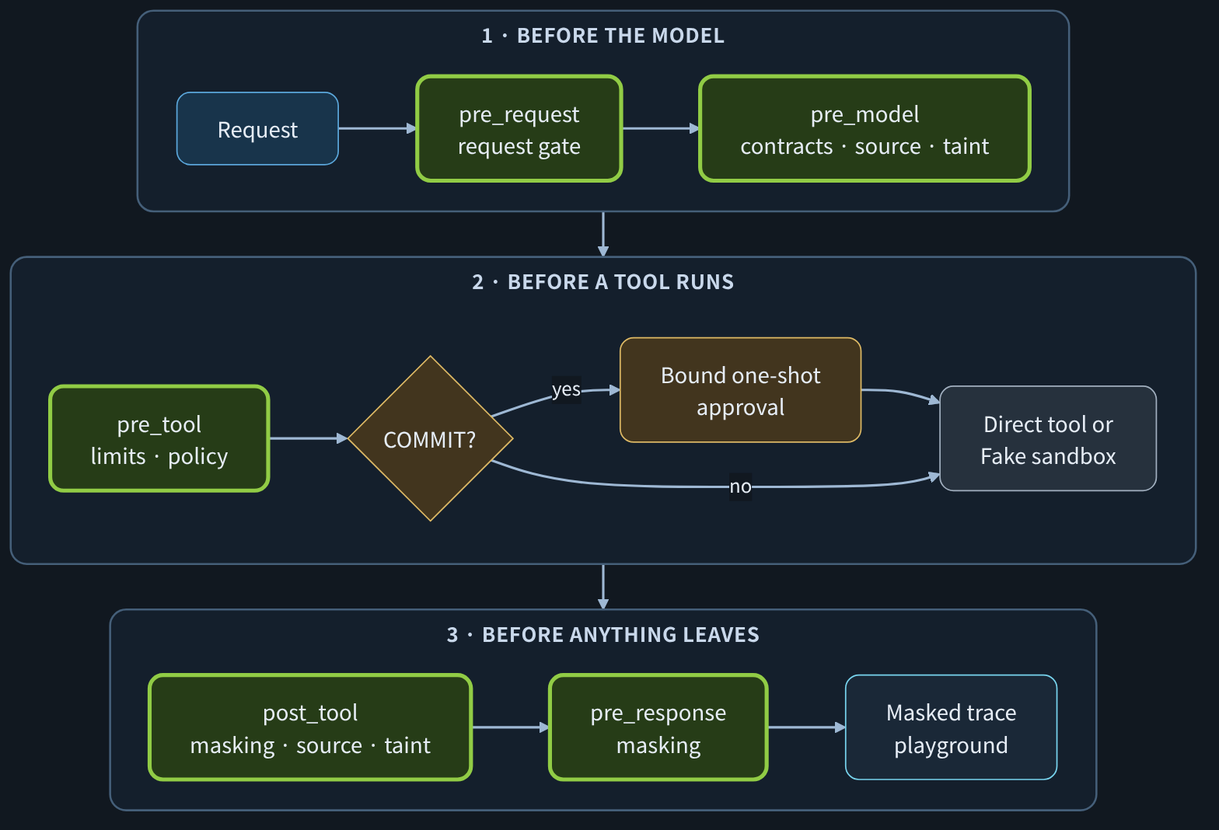
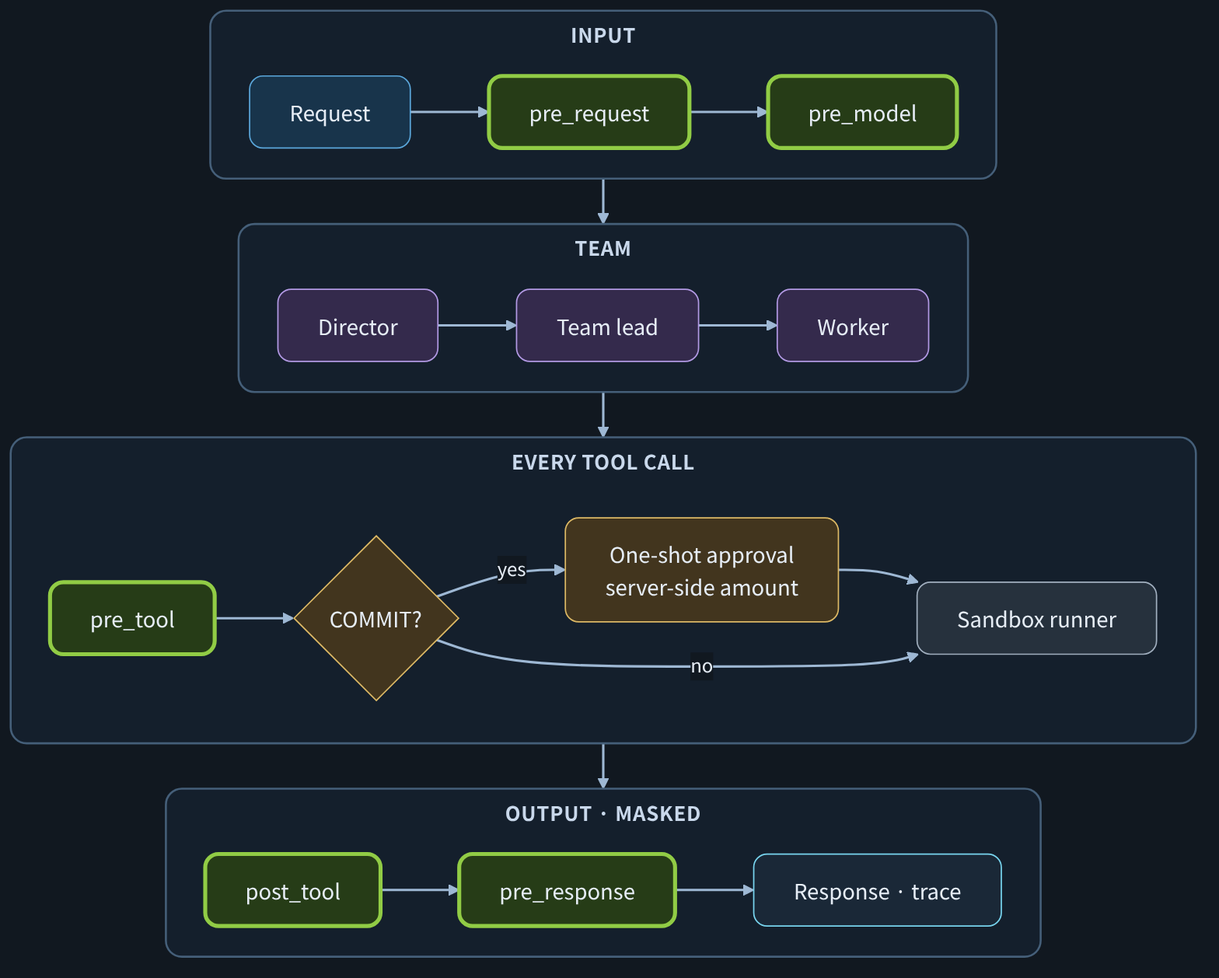
docs: keep the README to the essentials
Tables and one diagram, with evidence links; the three folded detail
sections and the legacy summary stay, other long text moves to
docs/IMPLEMENTATION.md.

Claude-Session: https://claude.ai/code/session_01UJTvahVsqTmJkgkdkZkuMi

diff --git a/README.md b/README.md
@@ -2,84 +2,59 @@
 
 [한국어](README.ko.md) · **English**
 
-A design-and-implementation repo for organizing specialist agents (weather, restaurants, lodging, payment…) into a
-**director → team lead → worker** hierarchy, with **swappable domain packs**, a **5-stage security filter chain**, and
-**NemoClaw/OpenShell sandboxes** that isolate risky actions (payments, code execution).
-Real compiled graphs run end to end from scenarios **without any LLM, network, or NemoClaw**.
+**Director → team lead → worker agents · approval-gated mock payments · NemoClaw sandboxes**
 
-**NemoClaw common problems** — [English](docs/NEMOCLAW_KNOWN_ISSUES.md) · [한국어](docs/NEMOCLAW_KNOWN_ISSUES.ko.md)
+[NemoClaw common problems](docs/NEMOCLAW_KNOWN_ISSUES.md) · [Design](docs/DESIGN.md) · [Implementation notes](docs/IMPLEMENTATION.md)
 
-## NemoClaw worker sandbox — 12 isolation checks
+## NemoClaw sandbox — 12 / 12 isolation checks
 
-**Result: 12 / 12 PASS** on one real install (WSL2, NemoClaw v0.0.145, OpenShell 0.0.116, 2026-11-27).
-A probe runs inside the sandbox. Checks 1–8 and 12 *attempt* the action; 9–11 read the process identity and privilege flags.
+Real install · WSL2 · NemoClaw v0.0.145 · OpenShell 0.0.116 · 2026-11-27 · [check script](https://github.com/ai-agent-orchestrator/langsmith-multi-agent-nemoclaw/blob/21-nemoclaw-cli/scripts/nemoclaw_isolation_check.py)
 
-| # | Check | When it applies | Enforced by | Observed |
-|---|---|---|---|---|
-| | **Network** | | | |
-| 1 | `direct_tcp_refused` | Code opens a socket straight to the internet, bypassing the proxy | Sandbox network namespace | timeout |
-| 2 | `proxy_tunnel_refused` | Code asks the sandbox proxy for an HTTPS tunnel (`CONNECT`) to an unlisted host | Proxy policy: no rule for the host | `403` |
-| 3 | `proxy_http_refused` | Code sends plain HTTP to an unlisted host through the proxy | Proxy policy: no rule for the host | `403` |
-| | **Files** | | | |
-| 4 | `control_tmp_write` | Code writes a temporary file in `/tmp`. **Must succeed** (control case) | Allowed by the file policy | written, removed |
-| 5 | `write_var_tmp_refused` | Code writes to `/var/tmp`, world-writable but not in the policy | Landlock | `EACCES` |
-| 6 | `write_dev_shm_refused` | Code writes to shared memory `/dev/shm`, also not in the policy | Landlock | `EACCES` |
-| 7 | `write_code_refused` | Code tries to change the worker's own program in `/opt/orchestra` | File permissions, read-only in policy | `EACCES` |
-| 8 | `read_unlisted_refused` | Code opens a world-readable file outside the policy (`/var/lib/dpkg/status`) | Landlock | `EACCES` |
-| | **Privileges** | | | |
-| 9 | `not_root` | Every process the worker runs | Sandbox user | uid `10001` |
-| 10 | `no_capabilities` | Code needs a Linux capability (admin-level kernel right) | Empty effective capability set | `CapEff` 0 |
-| 11 | `no_new_privileges` | Code launches a setuid program to gain rights | Kernel `no_new_privs` flag | `1` |
-| 12 | `memfd_refused` | Code creates an in-memory file to execute without touching disk (`memfd_create`) | Syscall filter (seccomp) | `EPERM` |
-
-**Model route (checked separately): PASS, `no_route`.** OpenShell opens the tunnel to `inference.local` without any
-network rule. No inference route was configured, so requests reached no model. **If a route is configured for the
-sandbox's OpenShell workspace, sandbox code can call that model**; run the check again after any such change.
-
-Not covered: CPU and memory limits, isolation between sandboxes, leaks through DNS. The result describes that install
-and policy, not every NemoClaw version. Run it with
-[`scripts/nemoclaw_isolation_check.py`](https://github.com/ai-agent-orchestrator/langsmith-multi-agent-nemoclaw/blob/21-nemoclaw-cli/scripts/nemoclaw_isolation_check.py);
-the script and the worker sandbox are on branch
-[`21-nemoclaw-cli`](https://github.com/ai-agent-orchestrator/langsmith-multi-agent-nemoclaw/tree/21-nemoclaw-cli).
+| # | Tried inside the sandbox | Stopped by | Result |
+|---|---|---|---|
+| 1 | Direct TCP to the internet | network namespace | timeout |
+| 2 | HTTPS tunnel to an unlisted host | proxy policy | `403` |
+| 3 | Plain HTTP to an unlisted host | proxy policy | `403` |
+| 4 | Write `/tmp` (control, must work) | allowed | written |
+| 5 | Write `/var/tmp` | Landlock | `EACCES` |
+| 6 | Write `/dev/shm` | Landlock | `EACCES` |
+| 7 | Change the worker code | file permissions | `EACCES` |
+| 8 | Read a file outside the policy | Landlock | `EACCES` |
+| 9 | Run as root | sandbox user | uid `10001` |
+| 10 | Hold Linux capabilities | none granted | `0` |
+| 11 | Gain rights through setuid | `no_new_privs` | on |
+| 12 | Run code from memory (`memfd_create`) | seccomp | `EPERM` |
+| ⚠ | Call a model via `inference.local` | **only an empty route**: setting one opens it | `503` |
 
 ## 1. What is implemented
 
 <p align="center">
   <img src="docs/diagrams/implemented-flow-dark.png" width="780"
-       alt="Filter flow: before the model (pre_request, pre_model), before a tool runs (pre_tool, one-shot approval for COMMIT, direct tool or Fake sandbox), before anything leaves (post_tool, pre_response, masked trace)">
+       alt="Request, pre_request, pre_model; director, team lead, worker; pre_tool, one-shot approval for COMMIT, sandbox runner; post_tool, pre_response, response and trace">
 </p>
 
-Any BLOCK stops the affected path. The sandbox in this flow is the local Fake runner. Normalization and taint rules
-are defense in depth, not a complete prompt-injection solution.
+## 2. Key design decisions (payments are mock)
 
-## 2. Key design decisions
-
-| Decision | What it guarantees |
-|---|---|
-| **Swappable domain packs** | Tools, agents, filters and scenarios live in `domains/*`; the core never imports a domain (test-enforced) |
-| **The server computes the amount** | The LLM never decides what is charged: the total comes from the holds |
-| **Three approval layers, one-shot** | No approval-ledger entry, no capture, even with all filters disabled; no answer means denial |
-| **Safe interrupt / resume** | Tool nodes re-run on resume, yet payment is captured exactly once (pinned by a test) |
-| **Fail closed** | A filter exception becomes BLOCK; sandbox mode without a runner aborts |
-| **Egress policy generated from declarations** | Duplicate host:port, wildcards, `access: full` and inference hosts are rejected; `closed` mode drops the LangSmith preset |
+| Remember this | How | Checked by |
+|---|---|---|
+| **The model never sets the charge** | The server totals the holds | [tool signature](domains/payment/tools.py) |
+| **No approval, no charge** | Ledger check in the tool wrapper, even with approval filters off | [test](tests/test_simulation_golden.py) |
+| **An approval works once** | Bound to arguments, amount, user and expiry | [test](tests/test_approval_binding.py) |
+| **Resume never charges twice** | The tool node re-runs; capture happens once | [test](tests/test_simulation_golden.py) |
+| **Network rules come from code** | Generated from tool declarations; wildcards and duplicate hosts fail | [test](tests/test_policy.py), CI |
+| **Isolation is measured** | A probe attempts each action on a real install | [script](https://github.com/ai-agent-orchestrator/langsmith-multi-agent-nemoclaw/blob/21-nemoclaw-cli/scripts/nemoclaw_isolation_check.py) |
 
 ## 3. Division of work and what remains
 
 | Area | Status |
 |---|---|
-| Specs/org chart/fan-out, filter chain + built-ins, tool wrapper, HITL, ScriptedChatModel | ✅ done |
-| Hierarchical graph/tools, service, travel + payment packs, simulation + 6 scenarios | ✅ offline |
-| NemoClaw policy generation/validation/drift/fail-closed, fake sandbox | ✅ done (real NemoClaw: see the last row) |
-| Packaging, legacy shims, immutable vendoring, frontmatter and 14-plugin catalog | ✅ C1–C5 |
-| hookify rules → existing filter stages | ✅ C9 |
-| 24-feature LangSmith map + offline `showcase` CLI | ✅ C11 offline; hosted/API+UI paths unverified |
-| CLI org/pattern/local trace options | ✅ C13 |
-| Claude tool mapping / `claude_dev` / adapters / additional domain scenarios | ⬜ C6–C8, C10; R4 + tool-count policy gate |
-| v1 backend (`langchain.agents.create_agent`), scenario parity | ✅ C15 (scripted models) |
-| Source-labelled contracts, approval binding, capability checks, inspection normalization/taint | ✅ C16–C19; rule-based defense in depth |
-| Memory / masked HMAC SQLite ledgers, local mock atomicity | ✅ C22; full workflow restart is not supported |
-| Playground trace / filter / approval-history tabs; Studio entry declaration | ✅ C14; `langgraph dev` unverified (CLI not installed) |
-| Real NemoClaw worker sandbox (branch `21-nemoclaw-cli`) | 🟡 isolation checks 12/12 on one install; ⬜ CPU/memory limits, load, recovery after restart |
+| Hierarchy, 5-stage filters, approval, mock payment, 6 scenarios | ✅ offline |
+| LangSmith, 24 features | ✅ offline · ⬜ real server |
+| NemoClaw egress policy generation | ✅ offline |
+| NemoClaw worker sandbox ([branch](https://github.com/ai-agent-orchestrator/langsmith-multi-agent-nemoclaw/tree/21-nemoclaw-cli)) | ✅ real install |
+| Real LLM | ⬜ |
+| Sandbox CPU / memory limits, load, restart, cross-sandbox and DNS-leak tests | ⬜ |
+| Claude tool adapters, more scenarios | ⬜ |
 
 ## Implementation details
 
@@ -253,18 +228,7 @@ and builds a scripted/Fake graph locally. `langgraph-cli` is absent here, so run
 
 </details>
 
-## NemoClaw in this repo
-
-This repo covers the part of NemoClaw you can **see and run offline**: `ToolSpec` egress declarations -> preset generation, validation and drift check (`scripts/gen_nemoclaw_presets.py`), the security-mode <-> preset mapping (`closed` removes the LangSmith egress preset entirely), and a fake sandbox that makes the `sandbox_egress_denied` scenario show the multi-agent -> LangSmith -> NemoClaw flow end to end.
-
-**Not covered on this branch:** executing inside a real sandbox. The worker sandbox work is on branch [`21-nemoclaw-cli`](https://github.com/ai-agent-orchestrator/langsmith-multi-agent-nemoclaw/tree/21-nemoclaw-cli); see the isolation checks above. CLI and policy schemas vary by NemoClaw version.
-
----
-
-# Appendix — Original skeleton (supervisor / handoff / hybrid / hierarchical, LangSmith)
-
-The earlier skeleton (`travel_planner/`) is kept as is (its 14 original tests still pass); a backward-compatible shim onto `orchestra/` is Codex task C2.
-The detailed legacy write-up (structure diagrams, LangSmith wrapper, security modes, bottleneck report, playground) is in the Korean README: [`README.ko.md`](README.ko.md#부록--기존-골격-supervisor--handoff--hybrid--hierarchical-langsmith-연동).
+## Appendix — Original skeleton (supervisor / handoff / hybrid / hierarchical, LangSmith)
 
 Quick summary of the legacy structures:
 
@@ -276,116 +240,3 @@ Quick summary of the legacy structures:
 | Hierarchical | Team-lead supervisors under a director, keeping each manager to 3–5 options (now superseded by `orchestra/`) |
 
 LangSmith wrapper modes (`TRAVEL_SECURITY_MODE`): `off` / `masked` / `closed` — in `closed`, tracing is disabled and, under NemoClaw, the LangSmith egress preset is not generated at all (physical block).
-
-Approval records bind the full canonical arguments, caller identity, server-derived
-amount, expiry and request/thread ID with a full SHA-256 key. Set
-`ORCHESTRA_APPROVAL_TTL_SECONDS` (default 300); supply the authenticated caller as
-`user_id=` to both OrchestraService.ask and resume. Legacy calls default to
-`anonymous`; this is compatibility, not authentication. Checkpointed approval
-payloads preserve the original deadline across interrupt re-execution. The ledger
-atomically claims the grant before execution. Signature fields are reserved only;
-no signing, persistence, or hash-chain audit was added.
-
-### Delegation capabilities (C18)
-
-`TeamSpec.capabilities` accepts optional `tools`, `domains`, and `sandboxes` lists.
-An explicit list is an upper bound: every descendant grant must fit inside it.
-Omitted dimensions derive from the subtree's actual grants; they are not wildcards.
-Empty lists grant nothing. Agent tools remain restricted to `AgentSpec.tools`.
-After domain resolution, sandbox ownership comes from registered pack metadata;
-foreign-domain sandbox tools and unknown grants fail closed before graph construction.
-Generated fanout leads inherit the same ancestor bounds. Host-defined agents without
-pack metadata have no domain or sandbox authority. These checks validate graph
-configuration; OS sandbox startup/policy attestation remains the separate runner work.
-
-### Inspection normalization and tool provenance (C19)
-
-The request gate checks a separate inspection copy: NFKC, decomposition/removal
-of combining marks and zero-width formatters, whitespace folding, and 1→i / 0→o.
-Business payloads, amounts, dates and original user messages are never rewritten.
-The legacy security gate uses the same inspection function.
-
-Successful post-tool data is exposed as `{"source":"tool","data": ...}`; this
-host-owned outer label overrides any source claim inside the returned data.
-The existing pre-model/handoff paths retain tool roles and reject recognized
-instruction patterns even through replayed data frames. Nested tool-labelled
-instructions cannot be passed as delegation or COMMIT data. Once a tool result
-matches the shared gate patterns, its raw text is replaced with a generic blocked
-marker and that thread is conservatively quarantined: delegation and COMMIT are
-blocked before approval or execution. Normal model continuation also stops on
-the marker. Quarantine is scoped by LangGraph configuration and is not cleared by
-user approval; use a new thread after investigation. State is process-memory only.
-
-This is **defense in depth**, not a complete prompt-injection solution or semantic
-taint tracking. Unrecognized paraphrases, other encodings, and model reasoning
-cannot be proven safe by these rules. A recognized quoted example can also trigger
-a conservative block. Source labels attest transport, not truth. Scanner, red-team
-framework, audit signatures and real sandbox runner remain separate work.
-
-### Simulation CLI (C13)
-
-```bash
-python -I examples/simulate_hierarchical.py --org orgs/travel_payment.yaml --pattern tools --trace --json out/sim/trace.json
-```
-
-`--pattern graph` is the default and retains the previous behavior. `tools` is a
-thin entry point in the control-tool factory module and calls the same safe graph
-builder; it is not another orchestration or model backend. An explicit `--org`
-replaces the scenario organization without modifying the scenario file. A missing
-path or directory exits with status 2 and one diagnostic line before graph execution.
-`--mode print|graph` still controls presentation only; both execute the real graph.
-
-`--trace` collects local filter decisions (including ALLOW), approval requests and
-results, sandbox routes/results, and blocks. Each `[TRACE]` line is one JSON record
-with a monotonically ordered event `seq`. Newlines inside fields are escaped.
-`--json` additionally includes the same `trace` array, using existing event order
-and deduplication. Trace console text and JSON exports always pass through masking,
-even with `--security-mode off`. Trace records whitelist diagnostic fields and omit
-approval bindings/full tool args. This option does not enable LangSmith transmission.
-Without it, the existing narrative/JSON shape and event capture behavior are retained.
-
-### Ledger persistence (C22)
-
-The default `LedgerStore` is isolated process memory and needs no key or file.
-For SQLite, set `ORCHESTRA_LEDGER=sqlite:///C:/private/orchestra/ledger.db`
-with an explicit path in an existing directory, and set
-`ORCHESTRA_LEDGER_HMAC_KEY` to a random secret of at least 32 UTF-8 bytes in the
-environment. Missing/short keys reject startup before opening the database.
-`ORCHESTRA_LEDGER_KEY_ID` is an optional public rotation label; when omitted,
-a non-secret HMAC-derived identifier is used. No default database path or secret
-is provided. Schema version 1 is recorded in SQLite and approval rows; unknown
-future versions fail closed. Tests create databases only under pytest `tmp_path`.
-
-The original C17 `ApprovalRecord` and canonical arguments stay in memory. SQLite
-stores a domain-separated, full-length HMAC-SHA256 binding over the entire original
-C17 tuple, a separate HMAC of the user, a key ID, expiry, consumption flag and
-masked display. Display omits argument/user/request contents and may show amount.
-Execution recomputes the HMAC from a valid transient record, including the original
-expiry and request ID; a new deadline never revives an old authorization. Expired
-records are invalid on read and `store.cleanup_expired(now)` deletes them.
-
-`ApprovalLedger`, `EventLog` and the local `MockPaymentProvider` share one store.
-`BEGIN IMMEDIATE` plus a conditional consume UPDATE prevents two connections from
-claiming the same grant. Consumption, mock payment state, and the keyed idempotency
-entry commit together. Failed mock-state writes roll back all three. Original
-arguments, unkeyed approval hashes, and raw binding payloads are omitted from
-persistent events. Payment safety evaluation correlates host-generated HMAC
-references after this redaction. A stable `EventLog(store=store, scope="app")`
-reloads masked events and deduplicates across instances; use separate scopes for
-independent runs. Default runtime scope is `runtime`.
-
-Key rotation: stop old writers, let outstanding approvals expire (or deny them),
-then deploy a new environment key/key ID together. New-key instances cannot consume
-or overwrite old-key approvals; retain their masked metadata as read-only until
-expiry, then clean it up. Old idempotency indexes are key-specific: do not blindly
-retry old requests across key epochs. Inspect recorded receipts and reconcile
-pending requests before enabling new work; no automatic re-keying or recovery of
-raw inputs is implemented. Keep old secrets out of the database and version control.
-
-One masked `append_event` hook is available for future signature/chain integration;
-its default is a no-op. No signature or hash chain is implemented. These guarantees
-cover the local mock/Fake path. SQLite COMMIT rejects nonparticipating payment
-providers and remote sandbox transports. Graph checkpoints, holds, model queues,
-and actual payment-provider effects are not made durable or transactionally coupled
-by this feature; full workflow restart/resume and real NemoClaw remain unverified.
-`Memory` mode retains C17 consumption on execution failure; only participating SQLite mock operations roll back authorization together with payment state.

diff --git a/docs/IMPLEMENTATION.md b/docs/IMPLEMENTATION.md
@@ -1,0 +1,129 @@
+# Implementation notes
+
+Back to the [README](../README.md).
+
+## NemoClaw in this repo
+
+This repo covers the part of NemoClaw you can **see and run offline**: `ToolSpec` egress declarations -> preset generation, validation and drift check (`scripts/gen_nemoclaw_presets.py`), the security-mode <-> preset mapping (`closed` removes the LangSmith egress preset entirely), and a fake sandbox that makes the `sandbox_egress_denied` scenario show the multi-agent -> LangSmith -> NemoClaw flow end to end.
+
+**Not covered on this branch:** executing inside a real sandbox. The worker sandbox work is on branch [`21-nemoclaw-cli`](https://github.com/ai-agent-orchestrator/langsmith-multi-agent-nemoclaw/tree/21-nemoclaw-cli); see the isolation checks in the [README](../README.md). CLI and policy schemas vary by NemoClaw version.
+
+---
+
+## Appendix — Original skeleton (supervisor / handoff / hybrid / hierarchical, LangSmith)
+
+The earlier skeleton (`travel_planner/`) is kept as is (its 14 original tests still pass); a backward-compatible shim onto `orchestra/` is Codex task C2.
+The detailed legacy write-up (structure diagrams, LangSmith wrapper, security modes, bottleneck report, playground) is in the Korean README: [`README.ko.md`](../README.ko.md#부록--기존-골격-supervisor--handoff--hybrid--hierarchical-langsmith-연동).
+
+Approval records bind the full canonical arguments, caller identity, server-derived
+amount, expiry and request/thread ID with a full SHA-256 key. Set
+`ORCHESTRA_APPROVAL_TTL_SECONDS` (default 300); supply the authenticated caller as
+`user_id=` to both OrchestraService.ask and resume. Legacy calls default to
+`anonymous`; this is compatibility, not authentication. Checkpointed approval
+payloads preserve the original deadline across interrupt re-execution. The ledger
+atomically claims the grant before execution. Signature fields are reserved only;
+no signing, persistence, or hash-chain audit was added.
+
+### Delegation capabilities (C18)
+
+`TeamSpec.capabilities` accepts optional `tools`, `domains`, and `sandboxes` lists.
+An explicit list is an upper bound: every descendant grant must fit inside it.
+Omitted dimensions derive from the subtree's actual grants; they are not wildcards.
+Empty lists grant nothing. Agent tools remain restricted to `AgentSpec.tools`.
+After domain resolution, sandbox ownership comes from registered pack metadata;
+foreign-domain sandbox tools and unknown grants fail closed before graph construction.
+Generated fanout leads inherit the same ancestor bounds. Host-defined agents without
+pack metadata have no domain or sandbox authority. These checks validate graph
+configuration; OS sandbox startup/policy attestation remains the separate runner work.
+
+### Inspection normalization and tool provenance (C19)
+
+The request gate checks a separate inspection copy: NFKC, decomposition/removal
+of combining marks and zero-width formatters, whitespace folding, and 1→i / 0→o.
+Business payloads, amounts, dates and original user messages are never rewritten.
+The legacy security gate uses the same inspection function.
+
+Successful post-tool data is exposed as `{"source":"tool","data": ...}`; this
+host-owned outer label overrides any source claim inside the returned data.
+The existing pre-model/handoff paths retain tool roles and reject recognized
+instruction patterns even through replayed data frames. Nested tool-labelled
+instructions cannot be passed as delegation or COMMIT data. Once a tool result
+matches the shared gate patterns, its raw text is replaced with a generic blocked
+marker and that thread is conservatively quarantined: delegation and COMMIT are
+blocked before approval or execution. Normal model continuation also stops on
+the marker. Quarantine is scoped by LangGraph configuration and is not cleared by
+user approval; use a new thread after investigation. State is process-memory only.
+
+This is **defense in depth**, not a complete prompt-injection solution or semantic
+taint tracking. Unrecognized paraphrases, other encodings, and model reasoning
+cannot be proven safe by these rules. A recognized quoted example can also trigger
+a conservative block. Source labels attest transport, not truth. Scanner, red-team
+framework, audit signatures and real sandbox runner remain separate work.
+
+### Simulation CLI (C13)
+
+```bash
+python -I examples/simulate_hierarchical.py --org orgs/travel_payment.yaml --pattern tools --trace --json out/sim/trace.json
+```
+
+`--pattern graph` is the default and retains the previous behavior. `tools` is a
+thin entry point in the control-tool factory module and calls the same safe graph
+builder; it is not another orchestration or model backend. An explicit `--org`
+replaces the scenario organization without modifying the scenario file. A missing
+path or directory exits with status 2 and one diagnostic line before graph execution.
+`--mode print|graph` still controls presentation only; both execute the real graph.
+
+`--trace` collects local filter decisions (including ALLOW), approval requests and
+results, sandbox routes/results, and blocks. Each `[TRACE]` line is one JSON record
+with a monotonically ordered event `seq`. Newlines inside fields are escaped.
+`--json` additionally includes the same `trace` array, using existing event order
+and deduplication. Trace console text and JSON exports always pass through masking,
+even with `--security-mode off`. Trace records whitelist diagnostic fields and omit
+approval bindings/full tool args. This option does not enable LangSmith transmission.
+Without it, the existing narrative/JSON shape and event capture behavior are retained.
+
+### Ledger persistence (C22)
+
+The default `LedgerStore` is isolated process memory and needs no key or file.
+For SQLite, set `ORCHESTRA_LEDGER=sqlite:///C:/private/orchestra/ledger.db`
+with an explicit path in an existing directory, and set
+`ORCHESTRA_LEDGER_HMAC_KEY` to a random secret of at least 32 UTF-8 bytes in the
+environment. Missing/short keys reject startup before opening the database.
+`ORCHESTRA_LEDGER_KEY_ID` is an optional public rotation label; when omitted,
+a non-secret HMAC-derived identifier is used. No default database path or secret
+is provided. Schema version 1 is recorded in SQLite and approval rows; unknown
+future versions fail closed. Tests create databases only under pytest `tmp_path`.
+
+The original C17 `ApprovalRecord` and canonical arguments stay in memory. SQLite
+stores a domain-separated, full-length HMAC-SHA256 binding over the entire original
+C17 tuple, a separate HMAC of the user, a key ID, expiry, consumption flag and
+masked display. Display omits argument/user/request contents and may show amount.
+Execution recomputes the HMAC from a valid transient record, including the original
+expiry and request ID; a new deadline never revives an old authorization. Expired
+records are invalid on read and `store.cleanup_expired(now)` deletes them.
+
+`ApprovalLedger`, `EventLog` and the local `MockPaymentProvider` share one store.
+`BEGIN IMMEDIATE` plus a conditional consume UPDATE prevents two connections from
+claiming the same grant. Consumption, mock payment state, and the keyed idempotency
+entry commit together. Failed mock-state writes roll back all three. Original
+arguments, unkeyed approval hashes, and raw binding payloads are omitted from
+persistent events. Payment safety evaluation correlates host-generated HMAC
+references after this redaction. A stable `EventLog(store=store, scope="app")`
+reloads masked events and deduplicates across instances; use separate scopes for
+independent runs. Default runtime scope is `runtime`.
+
+Key rotation: stop old writers, let outstanding approvals expire (or deny them),
+then deploy a new environment key/key ID together. New-key instances cannot consume
+or overwrite old-key approvals; retain their masked metadata as read-only until
+expiry, then clean it up. Old idempotency indexes are key-specific: do not blindly
+retry old requests across key epochs. Inspect recorded receipts and reconcile
+pending requests before enabling new work; no automatic re-keying or recovery of
+raw inputs is implemented. Keep old secrets out of the database and version control.
+
+One masked `append_event` hook is available for future signature/chain integration;
+its default is a no-op. No signature or hash chain is implemented. These guarantees
+cover the local mock/Fake path. SQLite COMMIT rejects nonparticipating payment
+providers and remote sandbox transports. Graph checkpoints, holds, model queues,
+and actual payment-provider effects are not made durable or transactionally coupled
+by this feature; full workflow restart/resume and real NemoClaw remain unverified.
+`Memory` mode retains C17 consumption on execution failure; only participating SQLite mock operations roll back authorization together with payment state.
